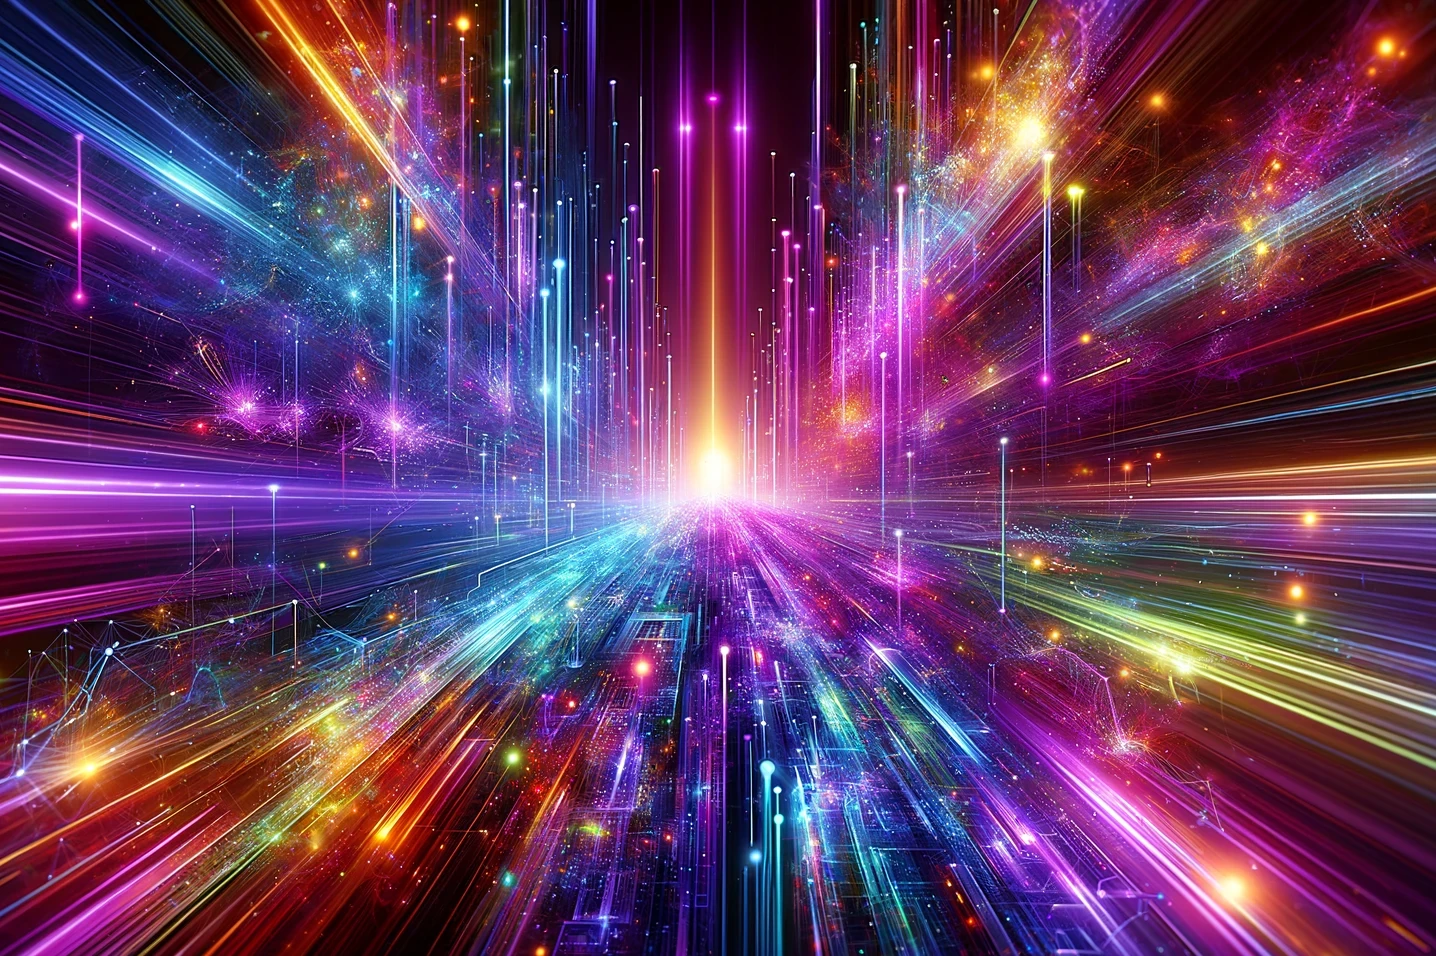
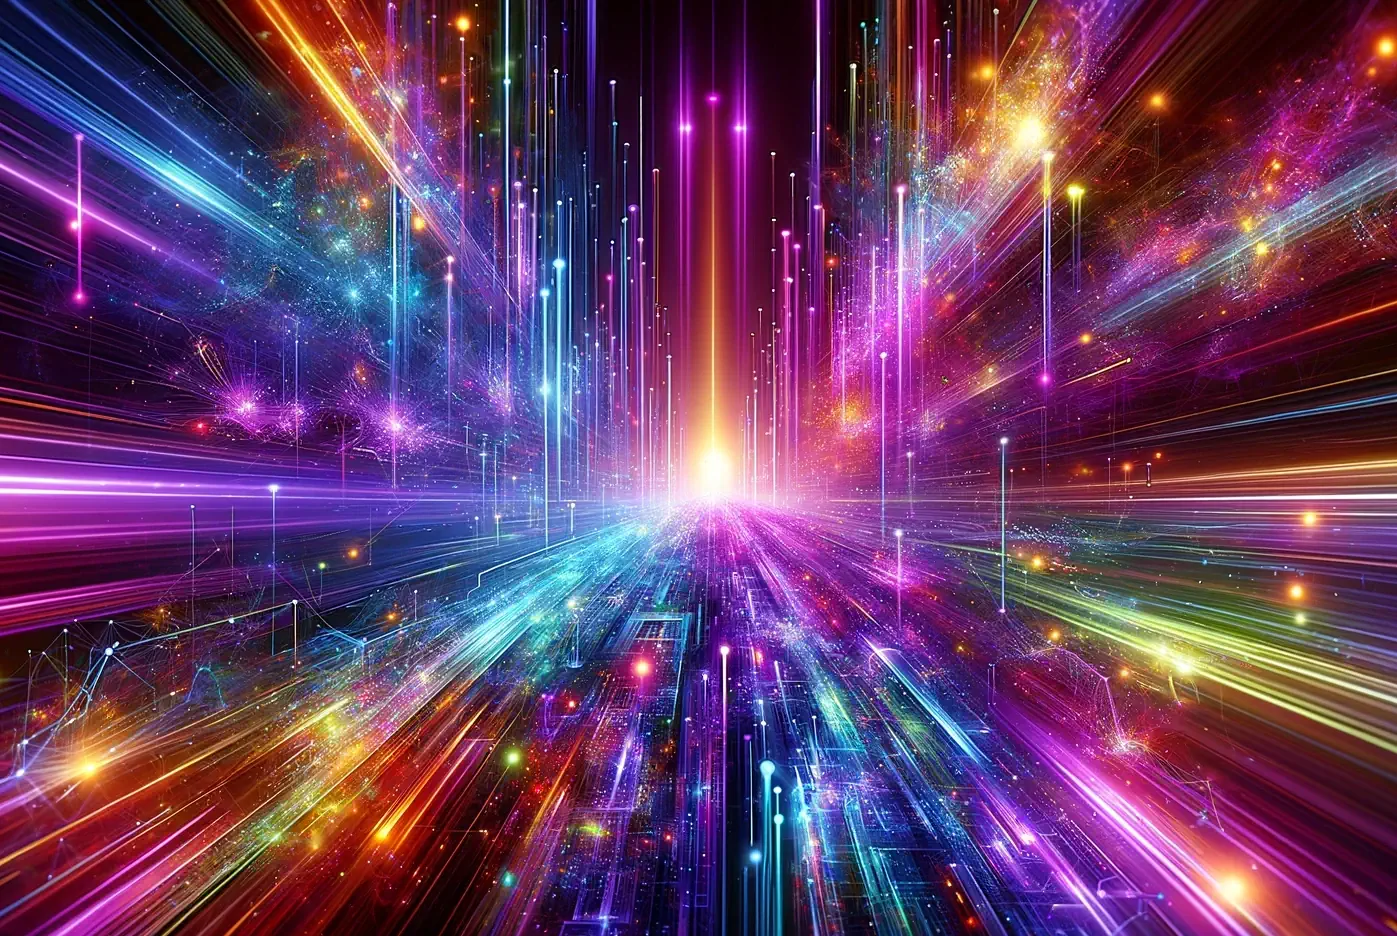
Fix main image

diff --git a/assets/css/extended/custom_.css b/assets/css/extended/custom_.css
@@ -1222,13 +1222,13 @@ html:not(.page-index) .index-page-intro-container {
     height: calc(100svh - 60px);
     width: 50%;
     z-index: 5;
-    background-image: url('/header-elements-image.jpg'), url('/header-elements-image-preload.png');
+    background-image: url('/header-elements-image.webp'), url('/header-elements-image-preload.png');
     background-repeat: no-repeat;
     background-size: cover;
     background-position: center;
     /* background-position: calc(50% - 15px) center; */
-    /* filter: brightness(1)contrast(3)grayscale(0)saturate(1); */
-    filter: brightness(1)contrast(1)grayscale(0)saturate(1.5)hue-rotate(-25deg);
+    filter: brightness(1)contrast(3)grayscale(0)saturate(1);
+    /* filter: brightness(1)contrast(1)grayscale(0)saturate(1.5)hue-rotate(-25deg); */
 }
 
 /* Scaling. Start. */
